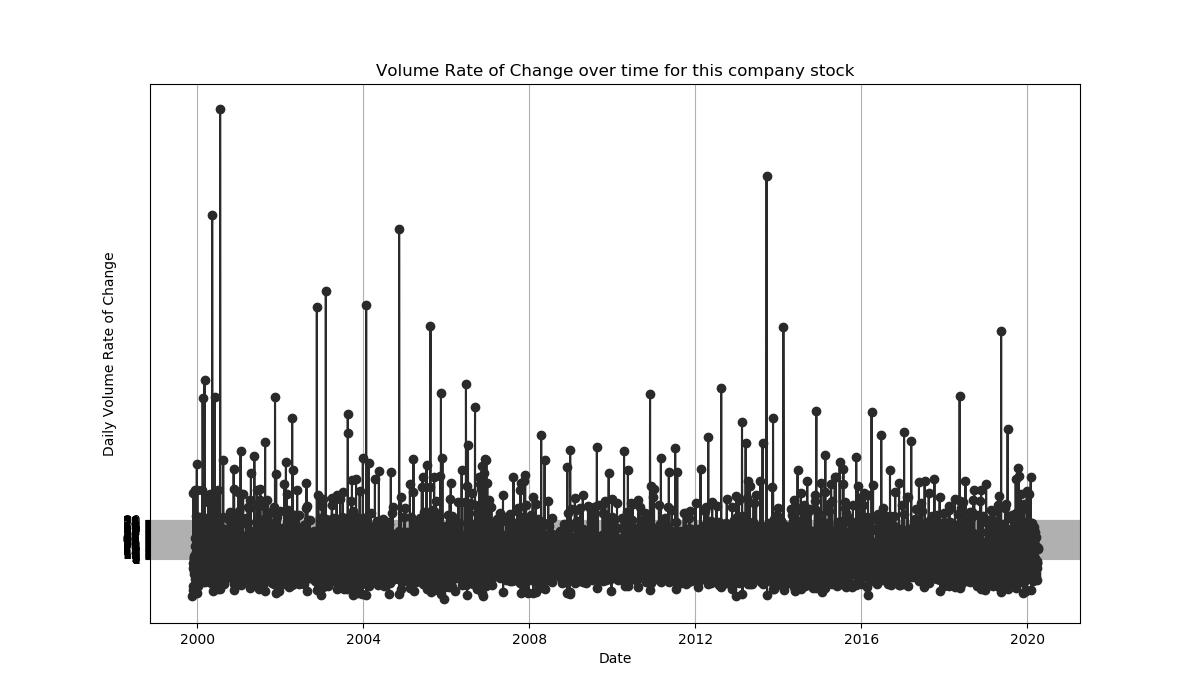
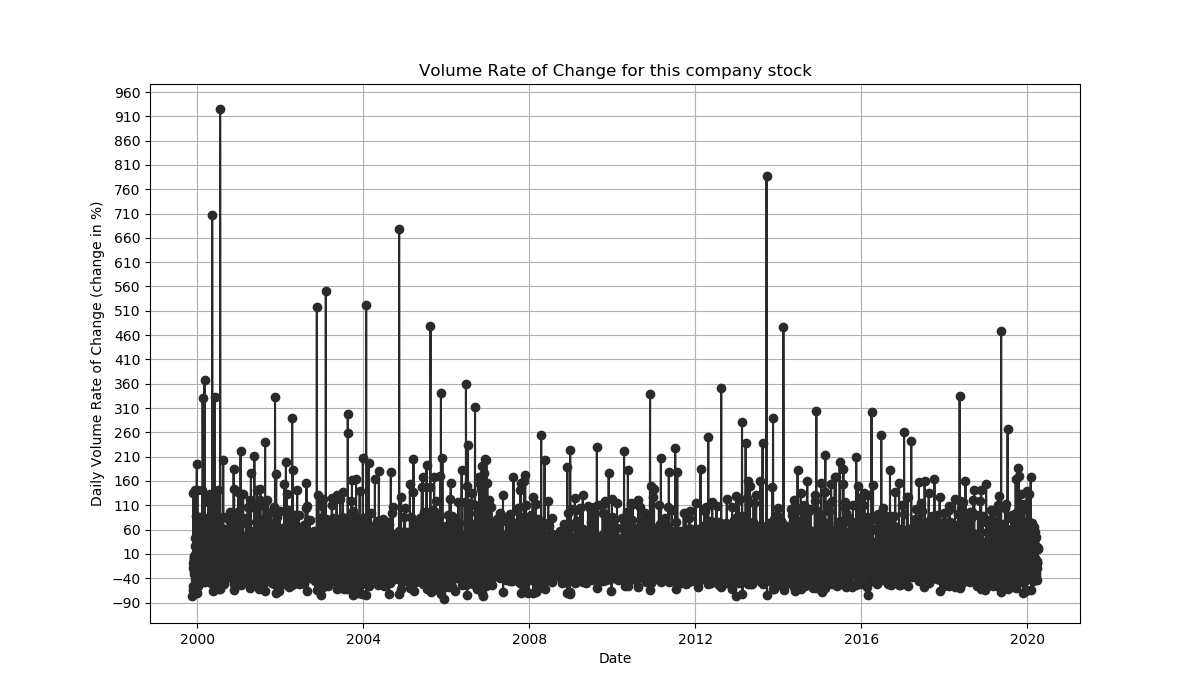
modified the python file volumerateofchange.py such that it now showcases the graph correctly

Changed region(s): [[0.0617, 0.12, 0.185, 0.87], [0.3083, 0.09, 0.7092, 0.12], [0.8633, 0.72, 0.925, 0.81]]

diff --git a/volumerateofchange.py b/volumerateofchange.py
@@ -17,9 +17,9 @@ with open("VolumeRateofChangeOutput/part-r-00000", "r") as file:
 
 plt.figure(figsize=(12, 7))
 plt.plot(dates, volumeChange, color="#2a2a2a", marker="o", linestyle="-")
-plt.title("Volume Rate of Change over time for this company stock")
+plt.title("Volume Rate of Change for this company stock")
 plt.xlabel("Date")
-plt.ylabel("Daily Volume Rate of Change")
-plt.yticks(range(0, 81)) 
+plt.ylabel("Daily Volume Rate of Change (change in %)")
+plt.yticks(range(-90, 1000, 50)) 
 plt.grid(True)
 plt.savefig("volumerateofchange.png")
